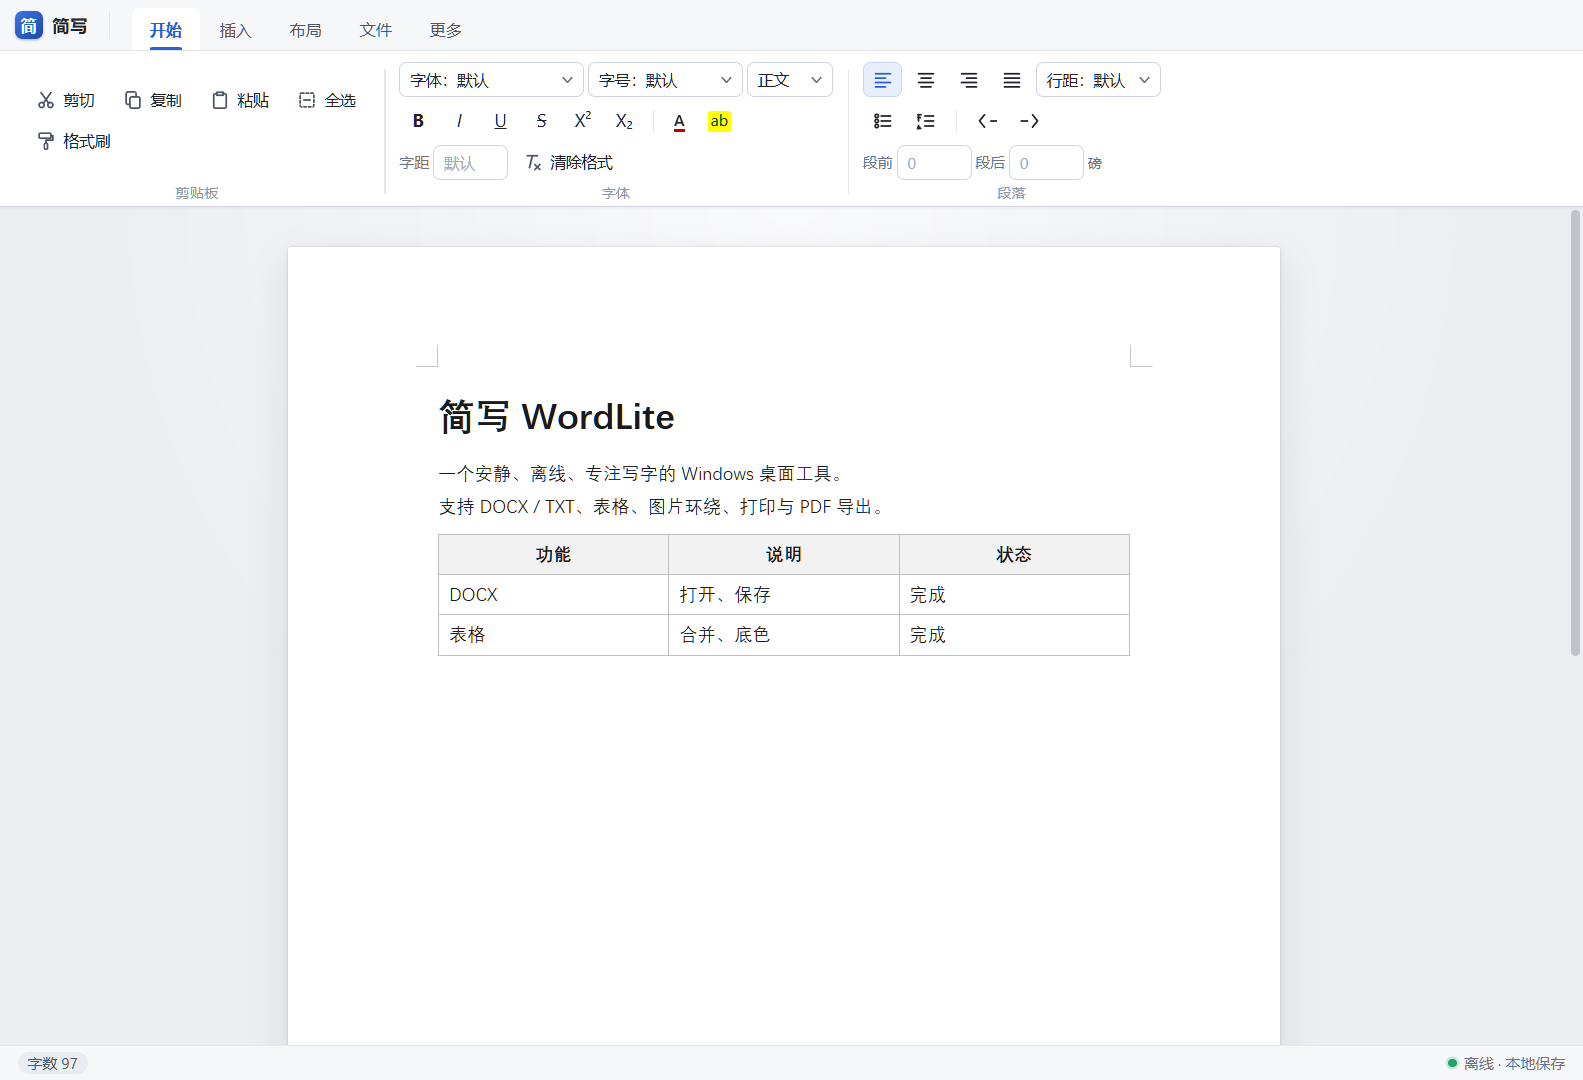
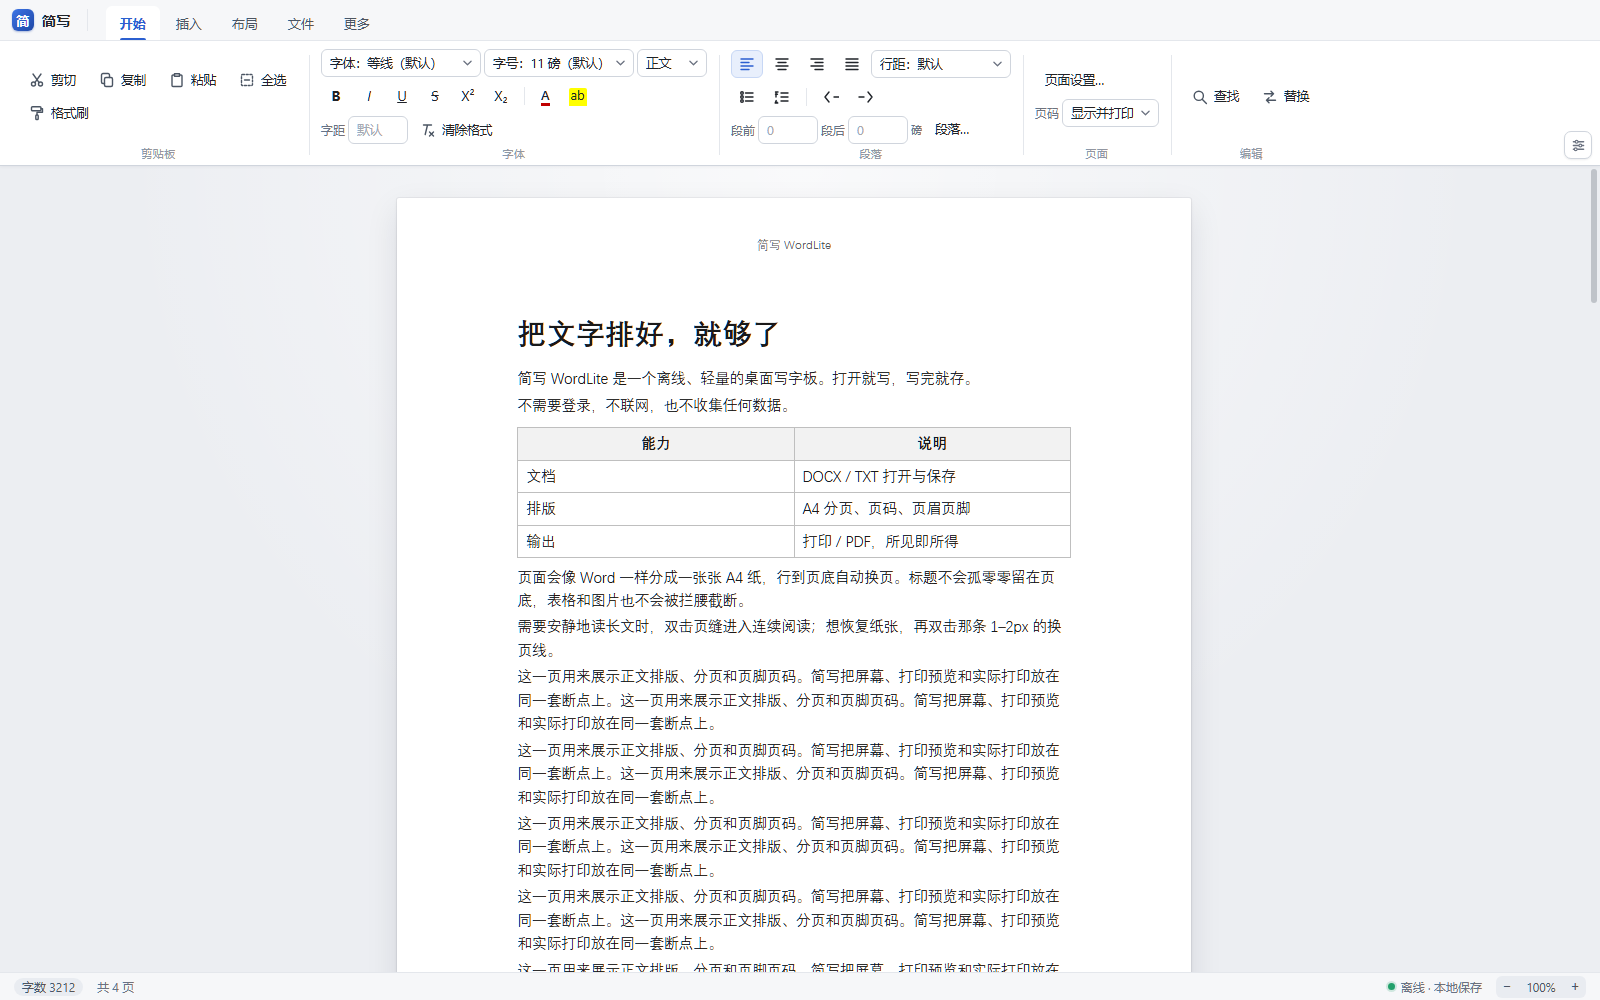
docs: 更新 README 截图与 v1.2.0 功能清单

diff --git a/README.en.md b/README.en.md
@@ -21,7 +21,13 @@
 </p>
 
 <p align="center">
-  <img src="docs/screenshot.png" width="860" alt="WordLite screenshot">
+  <img src="docs/screenshot.png" width="860" alt="WordLite screenshot: A4 pagination, header/footer, page numbers and the current toolbar">
+</p>
+
+<p align="center">
+  <img src="docs/screenshot-pagination.png" width="860" alt="WordLite pagination: footer page number, page gap and the next page header">
+  <br>
+  <sub>Screen pagination, header/footer and page numbers; print preview and PDF share the same break positions.</sub>
 </p>
 
 > The user interface is currently in Simplified Chinese only.
@@ -57,6 +63,7 @@ WordLite does one thing: **format text on your own machine, save it as DOCX, or 
 
 > On macOS 13 / 14 you can also hold <kbd>Control</kbd>, click the icon and choose "Open"; macOS 15 removed that shortcut, so use System Settings.
 > Requires macOS 13 Ventura or later (Safari 16 WebKit or newer).
+> The v1.2.0 macOS build has passed CI; this Release currently ships Windows first, and the Mac dmg will be added to the same Release.
 > To build it yourself on a Mac, see "Run from source" below.
 
 ## Features
@@ -65,13 +72,14 @@ WordLite does one thing: **format text on your own machine, save it as DOCX, or 
 | --- | --- |
 | Files | Open / save DOCX and TXT (auto-detects UTF-8, UTF-16, GBK), open via double-click / "Open with" / drag-and-drop, recent files, autosave and crash recovery |
 | Editing | Find / replace, case-sensitive search, highlight all matches and jump between them; drag selected text to another spot (Ctrl+drag copies it), drag images within the document flow |
-| Windows | In-app opens stay in the current window (Save / Don't save / Cancel when modified); drops and "Open with" open a separate window |
-| Text | Font, size, color, highlight, bold, italic, underline, strikethrough, super/subscript, letter spacing, format painter |
-| Paragraphs | Headings 1–3, alignment, indent, line height, spacing before/after, bulleted and numbered lists |
+| Windows | In-app opens stay in the current window (Save / Don't save / Cancel when modified); drops and "Open with" open a separate window; 10%–1000% page zoom (Ctrl+wheel / trackpad pinch / status bar) |
+| Text | Font, size (the dropdown shows the actual default), color, highlight, bold, italic, underline, strikethrough, super/subscript, letter spacing, format painter |
+| Paragraphs | Headings 1–3, alignment, indent, line height (multiple / fixed points), spacing before/after (points), bulleted and numbered lists, paragraph settings dialog |
 | Tables | Insert, drag column widths, merge / split cells, cell shading, border width and color |
 | Images | Insert, drag to move, precise resize, left / center / right align, text wrapping (square / top-and-bottom), visual crop, side panel with live preview and one-step undo, full-size viewer, replace, delete |
-| Page | Paper size, orientation, custom margins, page background, page breaks |
-| Output | Print (Ctrl+P opens the system print dialog directly, where you set page range, copies and preview), export to PDF |
+| Page | A4 screen pagination (line-level breaks, headings kept with the next paragraph, tables / images kept intact), continuous reading (double-click the page gap), paper size, orientation, custom margins, paper color, three page-number modes (off / screen only / screen + print), header and footer, line/block breaking, page setup, manual page breaks |
+| Interface | Single-row toolbar; bottom-right detailed tools panel (docked on wide windows, floating on narrow ones); actual default labels for font and size; page count and continuous-reading status |
+| Output | Print (Ctrl+P opens the system print dialog directly, where you set page range, copies and preview), export to PDF; screen / print preview / PDF share the same pagination breaks; closing the document window is blocked while the print panel is open |
 
 <details>
 <summary><b>Keyboard shortcuts</b> (also available in the app with <kbd>F1</kbd>, or <kbd>⌘?</kbd> on macOS)</summary>
@@ -84,7 +92,8 @@ WordLite does one thing: **format text on your own machine, save it as DOCX, or 
 | Context menu | <kbd>Shift+F10</kbd> or the Menu key | <kbd>⇧F10</kbd> |
 | Bold / Italic / Underline | <kbd>Ctrl+B</kbd> / <kbd>Ctrl+I</kbd> / <kbd>Ctrl+U</kbd> | <kbd>⌘B</kbd> / <kbd>⌘I</kbd> / <kbd>⌘U</kbd> |
 | Strikethrough | <kbd>Ctrl+Shift+X</kbd> | <kbd>⇧⌘X</kbd> |
-| Superscript / Subscript | <kbd>Ctrl+Shift+=</kbd> / <kbd>Ctrl+=</kbd> | <kbd>⇧⌘=</kbd> / <kbd>⌘=</kbd> |
+| Superscript / Subscript (superscript via toolbar) | — / <kbd>Ctrl+=</kbd> | — / <kbd>⌘=</kbd> |
+| Page zoom in / out | <kbd>Ctrl+Shift+=</kbd> / <kbd>Ctrl+Shift+-</kbd> | <kbd>⇧⌘=</kbd> / <kbd>⇧⌘-</kbd> |
 | Increase / Decrease font size | <kbd>Ctrl+Shift+&gt;</kbd> / <kbd>Ctrl+Shift+&lt;</kbd> | <kbd>⇧⌘&gt;</kbd> / <kbd>⇧⌘&lt;</kbd> |
 | Format painter: copy / apply | <kbd>Ctrl+Shift+C</kbd> / <kbd>Ctrl+Shift+V</kbd> | <kbd>⇧⌘C</kbd> / <kbd>⇧⌘V</kbd> |
 | Heading 1 / 2 / 3 / Body | <kbd>Ctrl+1</kbd> / <kbd>Ctrl+2</kbd> / <kbd>Ctrl+3</kbd> / <kbd>Ctrl+0</kbd> | <kbd>⌘1</kbd> / <kbd>⌘2</kbd> / <kbd>⌘3</kbd> / <kbd>⌘0</kbd> |
@@ -186,13 +195,14 @@ docs/                   README screenshot and migration notes
 
 ## Known limitations
 
-- Packaged and tested on Windows 10 / 11 and macOS 13 Ventura or later (both Apple silicon and Intel); older macOS versions are untested
+- Packaged and tested on Windows 10 / 11 and macOS 13 Ventura or later (the v1.2.0 Universal build passed three self-test suites on macOS CI; Intel hardware has not been re-tested, and older macOS versions are untested)
 - Choosing Quit from the Dock icon's context menu, logging out or shutting down exits without a save prompt; unsaved work is recovered from autosave when you reopen the app
 - The macOS build is ad-hoc signed and not notarized, so the first launch needs the steps under "Download"; the Windows build is not code-signed either
+- On macOS, pagination, continuous reading, paragraphs and PDF page counts pass CI; the physical print panel and the actual position of @page header/footer/page numbers have not been visually checked on a physical Mac
 - Text boxes, nested tables and complex fields are simplified on DOCX import
 - DOCX import restores only direct run formatting: `w:color` text colour, `w:highlight` highlighter and run-level `w:shd` character shading. Theme colours use the cached value in `w:color/@w:val` (a theme colour with no cached value is not restored); colours defined in character or paragraph styles and paragraph shading are not restored. When a run cannot be aligned with confidence it is left uncoloured, so colour never lands on the wrong characters
 - Image text wrapping supports inline, square (left / right) and top-and-bottom; tight, through, behind-text and in-front-of-text wrapping is simplified on import with a warning
-- Dragging text and images, and adjusting the crop box, work with a mouse only; touch long-press dragging and wheel zoom / panning inside the crop box are postponed to v1.2 (touch pens untested)
+- Dragging text and images, and adjusting the crop box, work with a mouse only; touch long-press dragging and wheel zoom / panning inside the crop box are not implemented yet (touch pens untested)
 - The image viewer is read-only: no previous / next image, no saving the image, and no pinch zoom (a trackpad pinch goes through Ctrl+wheel)
 
 ## FAQ

diff --git a/README.md b/README.md
@@ -21,7 +21,13 @@
 </p>
 
 <p align="center">
-  <img src="docs/screenshot.png" width="860" alt="简写界面截图">
+  <img src="docs/screenshot.png" width="860" alt="简写界面截图：A4 分页、页眉页脚、页码和当前工具栏">
+</p>
+
+<p align="center">
+  <img src="docs/screenshot-pagination.png" width="860" alt="简写分页截图：页脚页码、页缝和下一页页眉">
+  <br>
+  <sub>屏幕分页、页眉页脚与页码；打印预览和 PDF 使用同一套断点。</sub>
 </p>
 
 ## 为什么做它
@@ -55,6 +61,7 @@
 
 > macOS 13 / 14 还可以按住 <kbd>Control</kbd> 点图标选「打开」；macOS 15 之后这条捷径被系统取消了，只能走「系统设置 → 隐私与安全性」。
 > 需要 macOS 13 Ventura 或更新版本（系统 WKWebView 版本为 Safari 16 以上）。
+> v1.2.0 的 macOS 包已通过 CI 构建；当前 Release 先提供 Windows 安装包，Mac dmg 随后补到同一个 Release。
 > 在 Mac 上自行构建见下面「从源码运行」。
 
 ## 功能一览
@@ -63,13 +70,14 @@
 | --- | --- |
 | 文件 | 打开 / 保存 DOCX、TXT（自动识别 UTF-8、UTF-16、GBK），双击 / 右键「打开方式」/ 拖入窗口打开，最近文件，自动保存与崩溃恢复 |
 | 编辑 | 查找 / 替换，区分大小写，高亮全部匹配并逐个跳转；选中文字可拖到别处（Ctrl+拖为复制），图片可在文档流里拖动 |
-| 窗口 | 应用内打开留在当前窗口（未保存时提示保存 / 不保存 / 取消）；拖入或右键打开时新开独立窗口 |
-| 文字 | 字体、字号、颜色、高亮、加粗、斜体、下划线、删除线、上标、下标、字符间距、格式刷 |
-| 段落 | 标题 1–3、对齐、缩进、行距、段前段后间距、项目符号、编号列表 |
+| 窗口 | 应用内打开留在当前窗口（未保存时提示保存 / 不保存 / 取消）；拖入或右键打开时新开独立窗口；10%–1000% 页面缩放（Ctrl+滚轮 / 触控板捏合 / 状态栏） |
+| 文字 | 字体、字号（下拉框显示实际默认值）、颜色、高亮、加粗、斜体、下划线、删除线、上标、下标、字符间距、格式刷 |
+| 段落 | 标题 1–3、对齐、缩进、行距（倍数 / 固定值磅）、段前段后（磅）、项目符号、编号列表、段落设置对话框 |
 | 表格 | 插入、拖动列宽、合并 / 拆分单元格、单元格底色、边框粗细与颜色 |
 | 图片 | 插入、拖动移动、精确缩放、左 / 中 / 右对齐、环绕（四周型 / 上下型）、可视化裁剪、右侧面板实时预览与一步撤销、查看大图、更换、删除 |
-| 页面 | 纸张大小、横竖方向、自定义页边距、页面背景色、分页符 |
-| 输出 | 打印（Ctrl+P 直接打开系统打印页，页码范围、份数、预览都在那里调）、导出 PDF |
+| 页面 | A4 屏幕分页（按行拆页、标题与下段同页、表格 / 图片整块不拆）、连续阅读（双击页缝）、纸张大小、横竖方向、自定义页边距、纸色、页码三档（不显示 / 仅屏幕 / 显示并打印）、页眉页脚、按行 / 整段分页、页面设置、手动分页符 |
+| 界面 | 工具栏不换行；右下角详细工具侧板（宽窗停靠、窄窗浮动）；字体 / 字号默认标签；页数与连续阅读状态提示 |
+| 输出 | 打印（Ctrl+P 直接打开系统打印页，页码范围、份数、预览都在那里调）、导出 PDF；屏幕 / 打印预览 / PDF 使用同一套分页断点，打印时拦截误关窗口 |
 
 <details>
 <summary><b>快捷键</b>（应用内按 <kbd>F1</kbd> 也能看，Mac 上是 <kbd>⌘?</kbd>）</summary>
@@ -82,7 +90,8 @@
 | 右键菜单 | <kbd>Shift+F10</kbd> 或菜单键 | <kbd>⇧F10</kbd> |
 | 加粗 / 斜体 / 下划线 | <kbd>Ctrl+B</kbd> / <kbd>Ctrl+I</kbd> / <kbd>Ctrl+U</kbd> | <kbd>⌘B</kbd> / <kbd>⌘I</kbd> / <kbd>⌘U</kbd> |
 | 删除线 | <kbd>Ctrl+Shift+X</kbd> | <kbd>⇧⌘X</kbd> |
-| 上标 / 下标 | <kbd>Ctrl+Shift+=</kbd> / <kbd>Ctrl+=</kbd> | <kbd>⇧⌘=</kbd> / <kbd>⌘=</kbd> |
+| 上标 / 下标（上标用工具栏） | — / <kbd>Ctrl+=</kbd> | — / <kbd>⌘=</kbd> |
+| 页面放大 / 缩小 | <kbd>Ctrl+Shift+=</kbd> / <kbd>Ctrl+Shift+-</kbd> | <kbd>⇧⌘=</kbd> / <kbd>⇧⌘-</kbd> |
 | 增大 / 减小字号 | <kbd>Ctrl+Shift+&gt;</kbd> / <kbd>Ctrl+Shift+&lt;</kbd> | <kbd>⇧⌘&gt;</kbd> / <kbd>⇧⌘&lt;</kbd> |
 | 格式刷：复制 / 应用 | <kbd>Ctrl+Shift+C</kbd> / <kbd>Ctrl+Shift+V</kbd> | <kbd>⇧⌘C</kbd> / <kbd>⇧⌘V</kbd> |
 | 标题 1 / 2 / 3 / 正文 | <kbd>Ctrl+1</kbd> / <kbd>Ctrl+2</kbd> / <kbd>Ctrl+3</kbd> / <kbd>Ctrl+0</kbd> | <kbd>⌘1</kbd> / <kbd>⌘2</kbd> / <kbd>⌘3</kbd> / <kbd>⌘0</kbd> |
@@ -184,13 +193,14 @@ docs/                   README 截图与迁移笔记
 
 ## 已知限制
 
-- 已打包和测试 Windows 10 / 11、macOS 13 Ventura 及以上（Apple 芯片与 Intel 都测过）；更老的 macOS 没有测试
+- 已打包和测试 Windows 10 / 11、macOS 13 Ventura 及以上（v1.2.0 的 Universal 包已在 macOS CI 跑过三组自测；Intel 真机没有复测，更老的 macOS 没有测试）
 - 从 Dock 图标右键「退出」、注销或关机时，程序不会弹保存提示，会直接退出；未保存的内容靠自动保存恢复，重新打开时会提示恢复
 - 发布包没有 Apple 公证（macOS 用 ad-hoc 签名），首次打开要按「下载使用」里的步骤放行；Windows 安装包也没有代码签名
+- Mac 上的分页、连续阅读、段落和 PDF 页数已通过 CI 自测；物理 Mac 上的打印面板、@page 页眉页脚 / 页码的实际位置还没有人工目视核对
 - 文本框、嵌套表格、复杂域等 DOCX 对象导入时会被简化
 - DOCX 导入只恢复写在文字（run）上的直接格式：`w:color` 文字颜色、`w:highlight` 荧光笔高亮、run 级 `w:shd` 字符底纹。主题色取 `w:color/@w:val` 里 Word 存下的缓存色值（没有缓存值的主题色不恢复）；颜色/底纹写在字符样式或段落样式里的、以及段落底纹，导入后不恢复。对齐不上时宁可不染色，不会把颜色染到别的字上
 - 图片文字环绕支持嵌入型、四周型（左 / 右）和上下型；紧密型、穿越型、衬于文字下 / 浮于文字上的环绕导入时会被简化并给出提示
-- 拖动文字和图片、裁剪时的调框只支持鼠标；触摸屏长按拖动、裁剪里的滚轮缩放和框内平移推迟到 v1.2（触控笔未实测）
+- 拖动文字和图片、裁剪时的调框只支持鼠标；触摸屏长按拖动、裁剪里的滚轮缩放和框内平移还没有做（触控笔未实测）
 - 图片查看器只用来查看：不能切换上一张 / 下一张、不能另存为图片，也不支持双指缩放（触控板捏合会走 Ctrl+滚轮）
 
 ## 常见问题
